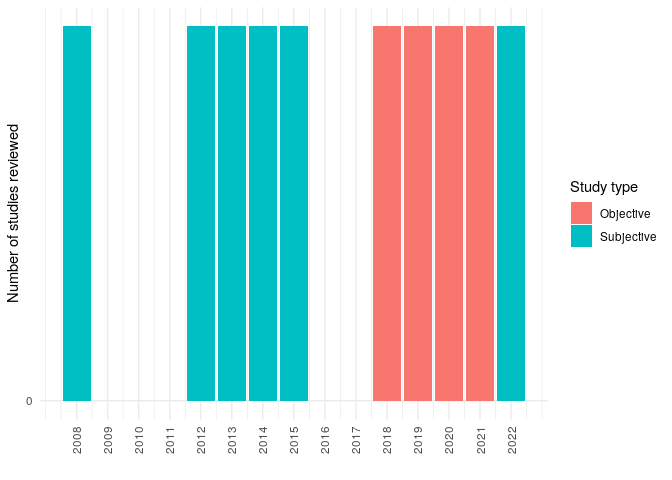
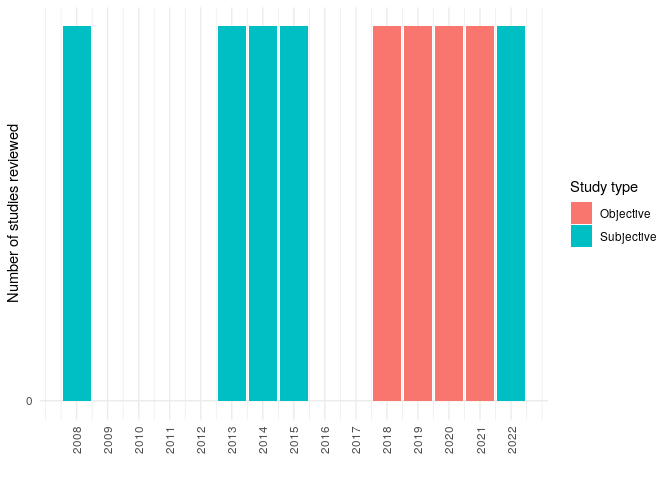
update

Changed region(s): [[0.2812, 0.0312, 0.3438, 0.8438]]

diff --git a/README.md b/README.md
@@ -9,23 +9,23 @@ The effect of road lighting on cycling uptake: A review
 
 <Background>Many studies have explored the extent to which macro-built
 environmental attributes (e.g. population density, land use mix,
-proximity, spatial connectivity), and especially safe cycling
-infrastructure, affect cycling uptake. Less attention has been paid to
-the impact that micro-built environmental factors such as road lighting
-may have on people’s choice to cycle. This paper provides a review of
-the scientific literature on the relationship between road lighting and
-cycling uptake and identifies existing gaps in research and knowledge.
-<Method>We used a hybrid systematic and snowballing method. Ten
-empirical scientific studies were reviewed. These studies can be divided
-into those that use subjective measurements and those that use objective
-measurements. <Results>Most of the studies analysed suggest that road
-lighting has a strong positive effect on cycling levels during the
-night. The impact is higher among women. More research on the effect of
-road lighting specifically on cycling is needed, including on the
-reasons road lighting is relevant to cyclists, the different impacts
-that road lighting may have on cyclist groups, the appropriate road
-lighting for cyclists, and in developing countries and countries with
-extreme latitudes. <Conclusion>
+proximity, spatial connectivity), and especially safe bicycle paths and
+lanes, affect cycling uptake. Less attention has been paid to the impact
+that micro-built environmental factors such as road lighting may have on
+people’s choice to cycle. This paper provides a review of the scientific
+literature on the relationship between road lighting and cycling uptake
+and identifies existing gaps in research and knowledge. <Method>We used
+a hybrid systematic and snowballing method. Ten empirical scientific
+studies were reviewed. These studies can be divided into those that use
+subjective measurements and those that use objective measurements.
+<Results>Most of the studies analysed suggest that road lighting has a
+strong positive effect on cycling levels during the night. The impact is
+higher among women. More research on the effect of road lighting
+specifically on cycling is needed, including on the reasons road
+lighting is relevant to cyclists, the different impacts that road
+lighting may have on cyclist groups, the appropriate road lighting for
+cyclists, and in developing countries and countries with extreme
+latitudes. <Conclusion>
 
 <!-- To what extent darkness or lack of road lighting deter people from cycling? -->
 <!-- Linear cycling infrastructure at ground level, such as cycle lanes, have received the bulk of research and policy attention in relation to investment in cycling.  -->
@@ -142,7 +142,10 @@ Figure 1: flow chart
 </div>
 
 <!-- Paper we did not have access: -->
-<!-- - S. Chandra, R. Radhakrishnan, Street visibility-dependent path finding for pedestrians and bicyclists in urban areas, Transportation Research Board 94th Annual Meeting, Transportation Research Board, Washington DC, United States, 2015. -->
+<!-- - S. Chandra, R. Radhakrishnan, Street visibility-dependent path finding for pedestrians and bicyclists in urban areas, Transportation Research Board 94th Annual Meeting, Transportation Research Board, Washington DC, United States, 2015. 
+
+- REFERENCE: Categorizing bicycling environments using GPS-based public bicycle speed data
+-->
 
 ## Data extraction
 
@@ -165,6 +168,8 @@ written in the last fifteen years (Figure 2). Methodologically, the
 studies can be roughly divided into those that used subjective
 measurements and objective measurements.
 
+<!-- Many route choice modelling on cycling. Almost none of them include road lighting. -->
+
 <div class="figure" style="text-align: center">
 
 <img src="README_files/figure-gfm/fig2-1.png" alt="Figure 2: Trends and types of studies reviewed" width="75%" />
@@ -182,7 +187,9 @@ Figure 2: Trends and types of studies reviewed
 
 ## Empirical findings
 
-### Subjective studies
+### Perceived road lighting and cycling
+
+<!-- Divide perhaps between objective and subjective studies -->
 
 “The odds of cycling participation and duration is not higher in
 participants who agreed that streets were well lit” (Castillo-Paredes et
@@ -193,6 +200,26 @@ al. 2022).
 <!-- Respondents living in lower-income communities reported greater barriers to pedestrian and bicycle safety and security than residents from wealthier neighborhoods" [@schneider_perceived_2022]. -->
 <!-- Using Strava Heatmap data and spatial regression models, @yang_crowdsourced_2022 found that "the light index has positive associations with running but not with cycling".  -->
 <!-- Using odd ratios to compare traffic flows in case and control hours, @fotios_effect_2022 found that darkness had a significant negative effect on the number of pedestrians and cyclists, but not on the number of motorized vehicles. -->
+
+Using satellite and street view imagery and linear regressions,
+Zacharias and Meng (2021) found that “street lighting is positively
+associated with dock-less shared bicycle uptake and deposit”.
+
+Using odd ratios, Uttley, Fotios, and Lovelace (2020) found that the
+drop in cycling levels after dark was substantially greater in unlit
+locations, compared with lit locations. Uttley, Fotios, and Lovelace
+(2020) also found “a non-linear relationship between relative brightness
+and the reduction in cyclists after-dark, suggesting that a minimal
+amount of lighting could be enough to promote cycling after dark”.
+
+Fotios, Uttley, and Fox (2019) found that “more people cycle on cycle
+trails and walk on foot paths after dark when they are lit than when
+they are unlit”.
+
+<!-- This supported previous work which "indicated the numbers of pedestrians and cyclists during the case period were significantly higher during daylight conditions than after-dark, resulting in a 62% increase in pedestrians and a 38% increase in cyclists" [@uttley_using_2017]. -->
+
+“Some bicyclists favor routes which are planted with street trees or
+installed with street lights” (Chen, Shen, and Childress 2018).
 
 In a paper that estimated welfare change associated with improvements in
 urban bicycling facilities, Poorfakhraei and Rowangould (2015) found
@@ -219,28 +246,6 @@ subgroups.” (Van Cauwenberg et al. 2012).
 Respondents in a study that examined if neighbourhood environments were
 associated with walking and cycling, reported that good lighting at
 night is an important facilitator of cycling (Lee and Moudon 2008).
-
-### Objective studies
-
-Using satellite and street view imagery and linear regressions,
-Zacharias and Meng (2021) found that “street lighting is positively
-associated with dock-less shared bicycle uptake and deposit”.
-
-Using odd ratios, Uttley, Fotios, and Lovelace (2020) found that the
-drop in cycling levels after dark was substantially greater in unlit
-locations, compared with lit locations. Uttley, Fotios, and Lovelace
-(2020) also found “a non-linear relationship between relative brightness
-and the reduction in cyclists after-dark, suggesting that a minimal
-amount of lighting could be enough to promote cycling after dark”.
-
-Fotios, Uttley, and Fox (2019) found that “more people cycle on cycle
-trails and walk on foot paths after dark when they are lit than when
-they are unlit”.
-
-<!-- This supported previous work which "indicated the numbers of pedestrians and cyclists during the case period were significantly higher during daylight conditions than after-dark, resulting in a 62% increase in pedestrians and a 38% increase in cyclists" [@uttley_using_2017]. -->
-
-“Some bicyclists favor routes which are planted with street trees or
-installed with street lights” (Chen, Shen, and Childress 2018).
 
 <!-- ## Cycling, crime, and lighting -->
 <!-- "Variables related to crime and lighting of public spaces were associated with active travel in countries in Latin America" [@castillo-paredes_perceived_2022]. -->
@@ -507,30 +512,6 @@ More people cycle on cycle trails and walk on foot paths after dark when
 they are lit than when they are unlit.
 </td>
 </tr>
-<tr>
-<td style="text-align:left;">
-Van Cauwenberg et al. (2012)
-</td>
-<td style="text-align:left;">
-135 Flemish municipalities (BE)
-</td>
-<td style="text-align:left;">
-Cycling frequency (‘How often do you cycle for transportation?’)
-</td>
-<td style="text-align:left;">
-Is street lighting sufficiently present in your neighborhood?’ yes/no
-</td>
-<td style="text-align:left;">
-Subjective
-</td>
-<td style="text-align:left;">
-Multilevel logistic regression
-</td>
-<td style="text-align:left;">
-Presence of street lighting increased the likelihood of daily cycling in
-\< 75 years old females and rural females, but not in other subgroups.
-</td>
-</tr>
 </tbody>
 </table>
 
@@ -621,11 +602,17 @@ Based on these findings, we highlight the following research needs:
 the relationship between road lighting and cycling uptake and identifies
 existing gaps in research and knowledge. To the best of our knowledge,
 no papers had looked at this association and gaps in the literature
-before. <Limitations>Nevertheless, the paper has several limitations.
-Although we used a hybrid systematic and snowballing search method to
-avoid missing existing studies, we could have been more strict by using
-more than one electronic database. We do not include and analyse the
-controls used in each of the studies.
+before. <Limitations>Nevertheless, the paper has several limitations:
+
+- The method used for this review (using two search databases and the
+  snowball technique) tries to guarantee a wide coverage. However, we
+  are aware that some studies not included in the selected search
+  databased, nor in the references of the papers found, or included in
+  the search databased but not found when filtering by title, abstract,
+  and keywords have not been reviewed.
+
+- We do not include and analyse the controls used in each of the
+  studies.
 
 # Conclusions
 
